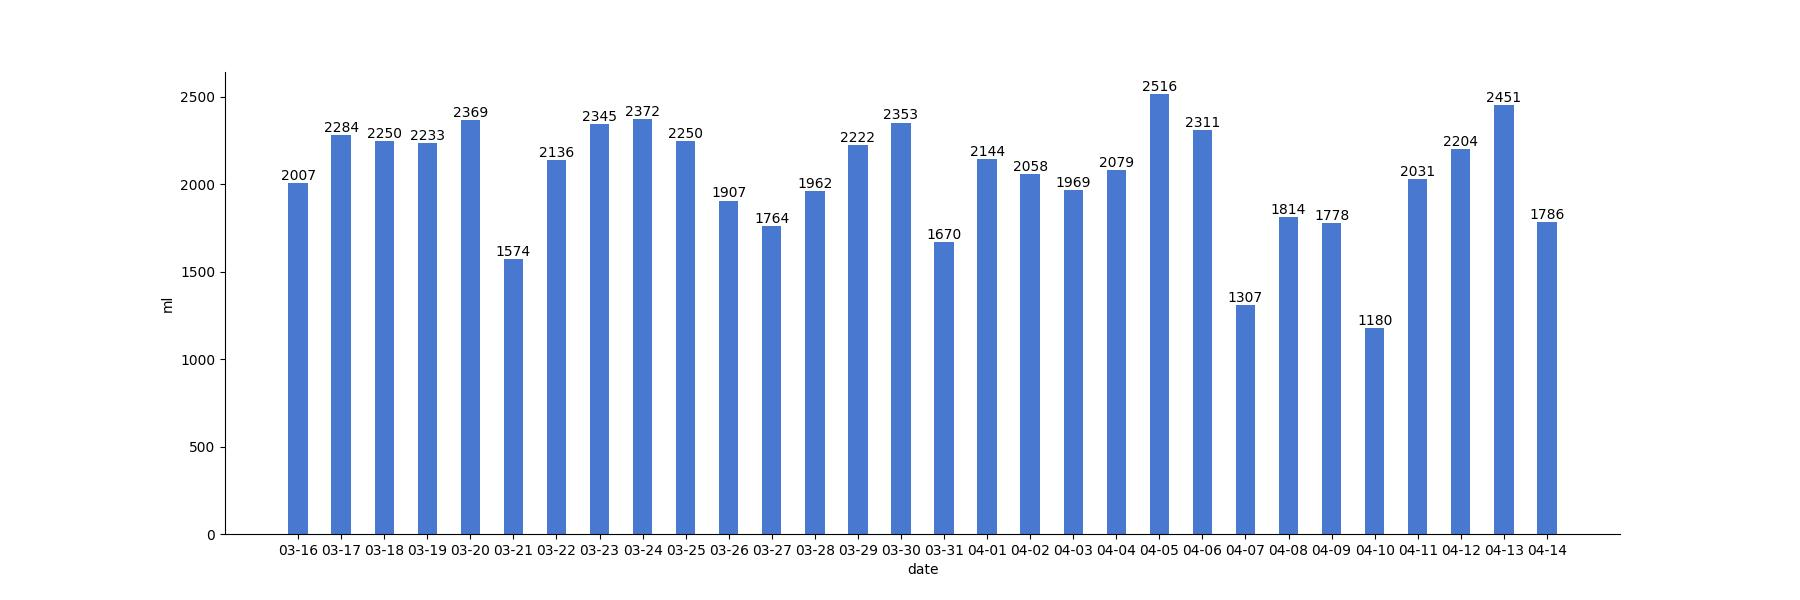
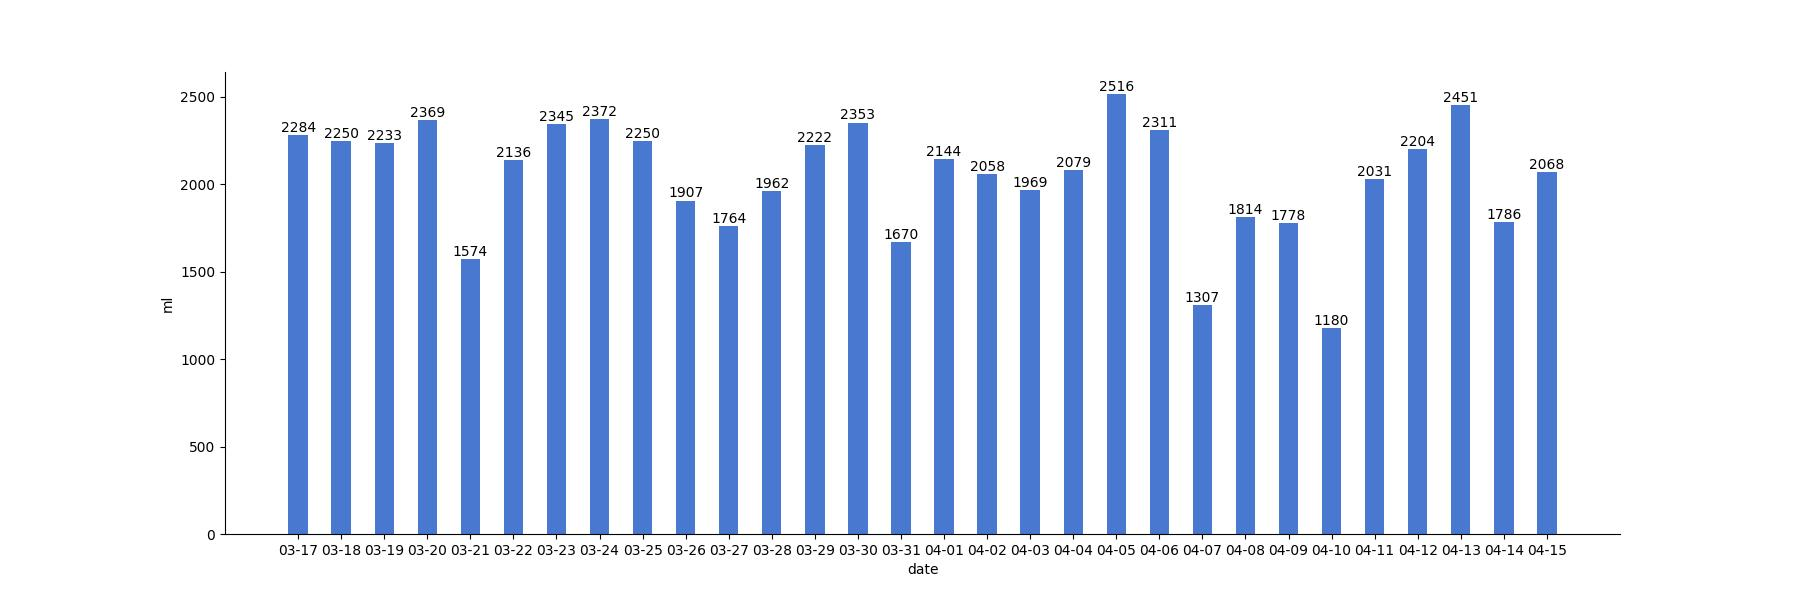
generated readme

diff --git a/README.md b/README.md
@@ -1,17 +1,3 @@
-# 今日饮水数据
-
-<div align=center>
-<img src="today.jpg" style="zoom: 100%;" />
-
-| 今日总饮水量 | 每小时平均饮水量 |
-| :----: | :----: |
-| 2068 | 129 |
-</div>
-
-| 日期 | 00:22:07 | 06:47:59 | 10:24:17 | 10:54:27 | 11:24:42 | 12:23:37 | 12:42:39 | 13:12:24 | 14:12:18 | 14:42:36 | 15:12:59 | 15:43:55 | 16:16:24 | 16:46:36 | 17:16:50 | 17:46:27 | 18:46:28 | 19:16:34 | 19:46:54 | 20:08:49 | 21:10:09 | 21:42:52 | 22:13:28 | 23:01:27 | 23:31:38 |
-| :----: | :----: | :----: | :----: | :----: | :----: | :----: | :----: | :----: | :----: | :----: | :----: | :----: | :----: | :----: | :----: | :----: | :----: | :----: | :----: | :----: | :----: | :----: | :----: | :----: | :----: |
-| 2022-04-15 | 111 | 57 | 80 | 132 | 34 | 71 | 60 | 106 | 63 | 45 | 113 | 75 | 63 | 25 | 87 | 81 | 300 | 60 | 75 | 32 | 43 | 93 | 76 | 94 | 92 |
-
 # 近30日饮水数据
 
 <div align=center>
@@ -19,8 +5,12 @@
 
 | 总饮水量 | 日均饮水量 |
 | :----: | :----: |
-| 61326 | 2044 |
+| 61387 | 2046 |
 </div>
+
+| 日期 | all | 00:22:07 | 06:47:59 | 10:24:17 | 10:54:27 | 11:24:42 | 12:23:37 | 12:42:39 | 13:12:24 | 14:12:18 | 14:42:36 | 15:12:59 | 15:43:55 | 16:16:24 | 16:46:36 | 17:16:50 | 17:46:27 | 18:46:28 | 19:16:34 | 19:46:54 | 20:08:49 | 21:10:09 | 21:42:52 | 22:13:28 | 23:01:27 | 23:31:38 |
+| :----: | :----: | :----: | :----: | :----: | :----: | :----: | :----: | :----: | :----: | :----: | :----: | :----: | :----: | :----: | :----: | :----: | :----: | :----: | :----: | :----: | :----: | :----: | :----: | :----: | :----: | :----: |
+| 2022-04-15 | 2068 | 111 | 57 | 80 | 132 | 34 | 71 | 60 | 106 | 63 | 45 | 113 | 75 | 63 | 25 | 87 | 81 | 300 | 60 | 75 | 32 | 43 | 93 | 76 | 94 | 92 |
 
 | 日期 | all | 00:18:29 | 00:45:13 | 01:53:26 | 02:36:08 | 08:24:36 | 11:17:34 | 11:49:13 | 12:19:53 | 13:25:22 | 13:56:08 | 14:26:26 | 14:57:23 | 15:57:42 | 16:37:52 | 17:11:53 | 18:06:37 | 18:27:34 | 19:27:39 | 19:57:32 | 20:29:41 | 20:59:59 | 21:43:57 | 22:25:06 | 22:55:27 | 23:25:29 | 23:55:33 |
 | :----: | :----: | :----: | :----: | :----: | :----: | :----: | :----: | :----: | :----: | :----: | :----: | :----: | :----: | :----: | :----: | :----: | :----: | :----: | :----: | :----: | :----: | :----: | :----: | :----: | :----: | :----: | :----: |
@@ -141,8 +131,4 @@
 | 日期 | all | 00:08:58 | 00:35:02 | 00:41:45 | 08:00:17 | 08:34:34 | 08:50:53 | 09:35:32 | 10:04:56 | 10:28:07 | 10:59:31 | 11:37:28 | 12:16:12 | 12:47:11 | 13:00:44 | 13:32:55 | 14:56:15 | 15:16:07 | 15:49:19 | 17:19:19 | 17:52:09 | 18:31:42 | 19:36:53 | 19:58:23 | 20:39:41 | 21:14:31 | 21:44:25 | 22:14:32 | 22:31:49 | 23:13:00 | 23:20:07 | 23:37:59 | 23:54:02 |
 | :----: | :----: | :----: | :----: | :----: | :----: | :----: | :----: | :----: | :----: | :----: | :----: | :----: | :----: | :----: | :----: | :----: | :----: | :----: | :----: | :----: | :----: | :----: | :----: | :----: | :----: | :----: | :----: | :----: | :----: | :----: | :----: | :----: | :----: |
 | 2022-03-16 | 2007 | 7 | 30 | 56 | 60 | 117 | 12 | 70 | 55 | 23 | 117 | 81 | 200 | 60 | 45 | 48 | 74 | 73 | 62 | 200 | 41 | 13 | 66 | 70 | 26 | 99 | 51 | 39 | 45 | 45 | 49 | 43 | 30 |
-
-| 日期 | all | 00:01:03 | 00:42:11 | 01:19:28 | 08:00:41 | 08:33:48 | 08:57:51 | 09:29:22 | 10:13:42 | 10:50:09 | 11:56:52 | 12:19:50 | 12:56:03 | 13:32:22 | 14:11:30 | 14:44:57 | 15:15:00 | 15:45:53 | 16:17:55 | 16:45:33 | 17:43:48 | 18:04:43 | 18:34:25 | 18:58:08 | 19:23:10 | 19:54:44 | 20:54:19 | 21:26:56 | 21:37:39 | 21:59:05 | 22:29:39 | 22:59:37 | 23:15:25 | 23:23:52 | 23:44:51 |
-| :----: | :----: | :----: | :----: | :----: | :----: | :----: | :----: | :----: | :----: | :----: | :----: | :----: | :----: | :----: | :----: | :----: | :----: | :----: | :----: | :----: | :----: | :----: | :----: | :----: | :----: | :----: | :----: | :----: | :----: | :----: | :----: | :----: | :----: | :----: | :----: |
-| 2022-03-15 | 2103 | 64 | 51 | 72 | 53 | 36 | 16 | 71 | 97 | 81 | 22 | 200 | 106 | 12 | 71 | 60 | 53 | 78 | 55 | 68 | 200 | 21 | 16 | 90 | 37 | 34 | 56 | 10 | 15 | 80 | 40 | 51 | 68 | 92 | 27 |
 
